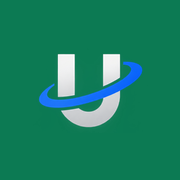
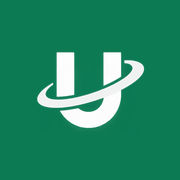
Wortmarke im Kopf, Fussende und Bewerbungsbogen
Das Logo wird in der gruenen Fassung eingesetzt: eine Marke in Blau neben
einer Seite, die auf genau einem gruenen Akzent aufgebaut ist, waere ein
zweiter Markenton gewesen.

Genommen ist der Schriftzug, nicht das ganze stehende Logo. In einer 68
Pixel hohen Kopfleiste wird der Schriftzug im stehenden Aufbau so klein,
dass er nicht mehr zu lesen ist. Die Bildmarke traegt dafuer das Symbol im
Reiter, wo umgekehrt kein Schriftzug lesbar waere. Beides zusammen ergibt
eine Marke, die an jeder Stelle in der Groesse steht, die sie braucht.

Zwei Dateien, helle und dunkle Fassung, ausgewaehlt ueber <picture> und
prefers-color-scheme: der Browser laedt nur die eine. Ohne die dunkle
Fassung waere der fast schwarze Schriftzug im Dunkelmodus unsichtbar
gewesen.

Das Symbol traegt jetzt die Bildmarke in Weiss auf gruenem Grund statt der
Urfassung mit blauem Ring, damit auch dort kein Blau mehr steht.

Nebenbei: der Bewerbungsbogen hatte noch theme-color der alten Palette im
Kopf stehen.

Changed region(s): [[0.1944, 0.2778, 0.8056, 0.7222]]

diff --git a/src/components/wordmark.tsx b/src/components/wordmark.tsx
@@ -1,0 +1,51 @@
+import { site } from "@/content/site.config";
+
+/**
+ * Wortmarke.
+ *
+ * Zwei Fassungen, eine helle und eine dunkle, ausgewählt über <picture> und
+ * prefers-color-scheme. Der Browser lädt dadurch nur die eine, die er
+ * braucht; zwei <img> übereinander mit CSS umzuschalten würde beide holen.
+ *
+ * Warum überhaupt zwei: die Schrift der Wortmarke steht in der hellen
+ * Fassung fast schwarz. Im Dunkelmodus wäre sie auf der dunklen Kopfleiste
+ * unsichtbar. Das ist kein Feinschliff, sondern die Bedingung dafür, dass
+ * die Marke in beiden Modi überhaupt dasteht.
+ *
+ * Warum die Wortmarke und nicht das ganze Zeichen: die gelieferte Datei ist
+ * ein stehendes Logo, Bildmarke über Schriftzug. In eine 68 Pixel hohe
+ * Kopfleiste gesetzt wird der Schriftzug darin so klein, dass er nicht mehr
+ * zu lesen ist. Die Bildmarke allein trägt dafür das Symbol im Reiter, wo
+ * umgekehrt kein Schriftzug lesbar wäre.
+ *
+ * Breite und Höhe stehen fest im Markup. Ohne sie springt die Kopfleiste
+ * beim Laden um die Höhe des Bildes.
+ */
+
+/** Seitenverhältnis der Dateien in public/images: 423 zu 78. */
+const RATIO = 423 / 78;
+
+export function Wordmark({
+  height = 26,
+  className = "",
+}: {
+  height?: number;
+  className?: string;
+}) {
+  const width = Math.round(height * RATIO);
+
+  return (
+    <picture>
+      <source srcSet="/images/wordmark-dark.png" media="(prefers-color-scheme: dark)" />
+      <img
+        src="/images/wordmark-light.png"
+        alt={site.name}
+        width={width}
+        height={height}
+        className={className}
+        style={{ height, width: "auto" }}
+        decoding="async"
+      />
+    </picture>
+  );
+}

diff --git a/src/app/job/[lang]/layout.tsx b/src/app/job/[lang]/layout.tsx
@@ -6,6 +6,7 @@ import { notFound } from "next/navigation";
 import Link from "next/link";
 import { APPLICATION_LOCALES, DEFAULT_APP_LOCALE, isAppLocale } from "@/content/recruiting";
 import { localeNames, tr, ui } from "@/content/application";
+import { Wordmark } from "@/components/wordmark";
 import { site } from "@/content/site.config";
 import "../../globals.css";
 
@@ -55,15 +56,15 @@ export default async function JobLayout({
       suppressHydrationWarning
     >
       <head>
-        <meta name="theme-color" content="#fbfbfd" media="(prefers-color-scheme: light)" />
-        <meta name="theme-color" content="#0b0b0c" media="(prefers-color-scheme: dark)" />
+        <meta name="theme-color" content="#fbfcfb" media="(prefers-color-scheme: light)" />
+        <meta name="theme-color" content="#071310" media="(prefers-color-scheme: dark)" />
       </head>
       <body>
         <header className="border-b border-hairline">
           <div className="mx-auto flex max-w-[640px] items-center justify-between gap-4 px-5 py-4">
-            <Link href="/de" className="text-[16px] font-semibold tracking-tight text-ink">
-              {site.name}
-              <span className="ml-1.5 font-normal text-muted">Work</span>
+            <Link href="/de" className="inline-flex items-baseline gap-1.5" aria-label={`${site.name} Work`}>
+              <Wordmark height={20} />
+              <span className="text-[15px] font-normal text-muted">Work</span>
             </Link>
 
             {/* Sprachumschalter gehört nach oben und nicht ins Fußende:

diff --git a/src/components/site-header.tsx b/src/components/site-header.tsx
@@ -5,6 +5,7 @@ import { usePathname } from "next/navigation";
 import { useEffect, useState } from "react";
 import { AnimatePresence, motion, useMotionValueEvent, useReducedMotion, useScroll } from "motion/react";
 import { ListIcon, XIcon } from "@phosphor-icons/react";
+import { Wordmark } from "@/components/wordmark";
 import { LOCALES, site, type Locale } from "@/content/site.config";
 import { nav } from "@/content/copy";
 import { href, t } from "@/lib/i18n";
@@ -60,10 +61,10 @@ export function SiteHeader({ locale }: { locale: Locale }) {
         <div className="u-shell flex h-[68px] items-center justify-between gap-6">
           <Link
             href={href(locale)}
-            className="text-[17px] font-semibold tracking-tight text-ink"
+            className="inline-flex items-center"
             aria-label={site.name}
           >
-            {site.name}
+            <Wordmark height={26} />
           </Link>
 
           <nav className="hidden items-center gap-8 lg:flex" aria-label="Hauptnavigation">

diff --git a/src/components/site-footer.tsx b/src/components/site-footer.tsx
@@ -1,4 +1,5 @@
 import Link from "next/link";
+import { Wordmark } from "@/components/wordmark";
 import { contact, legal, site, type Locale } from "@/content/site.config";
 import { footer, nav } from "@/content/copy";
 import { href, t } from "@/lib/i18n";
@@ -23,7 +24,7 @@ export function SiteFooter({ locale }: { locale: Locale }) {
       <div className="u-shell py-14 md:py-16">
         <div className="grid gap-10 md:grid-cols-[1.4fr_1fr_1fr_1.2fr]">
           <div>
-            <p className="text-[17px] font-semibold tracking-tight text-ink">{site.name}</p>
+            <Wordmark height={22} />
             <p className="mt-2 max-w-[30ch] text-[15px] leading-relaxed text-muted">
               {t(site.tagline, locale)}
             </p>
